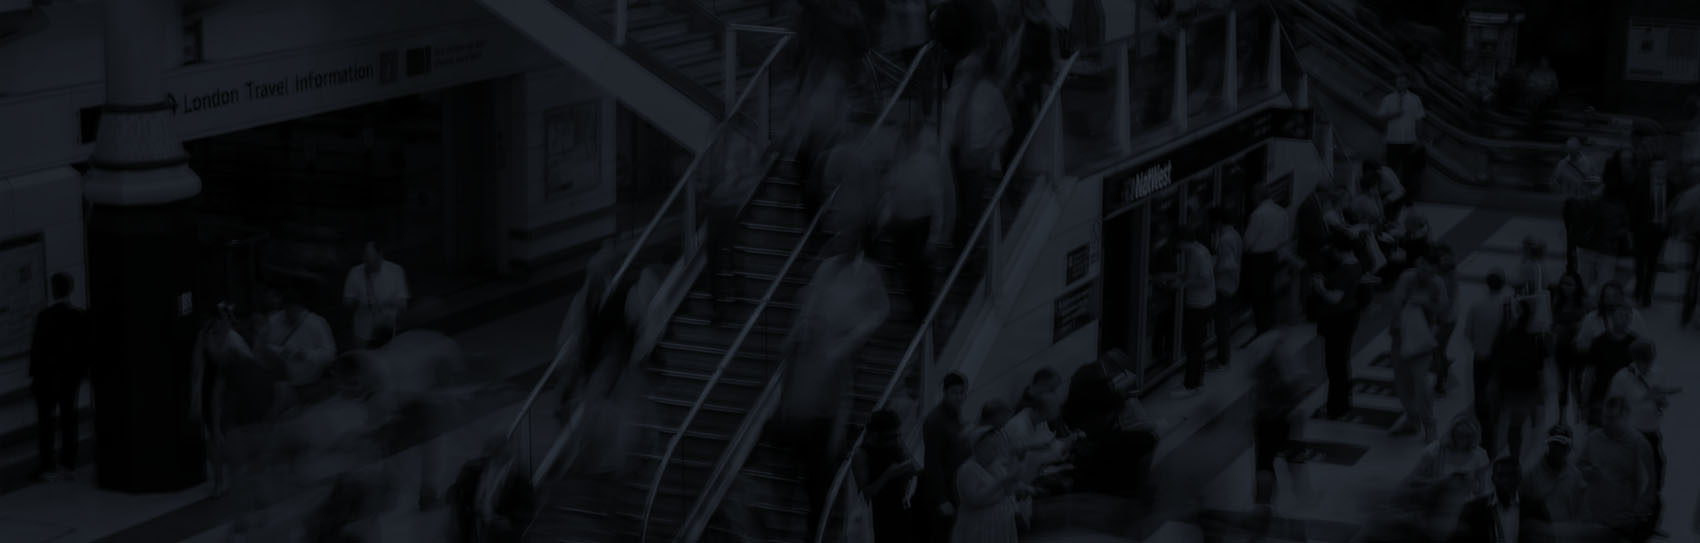
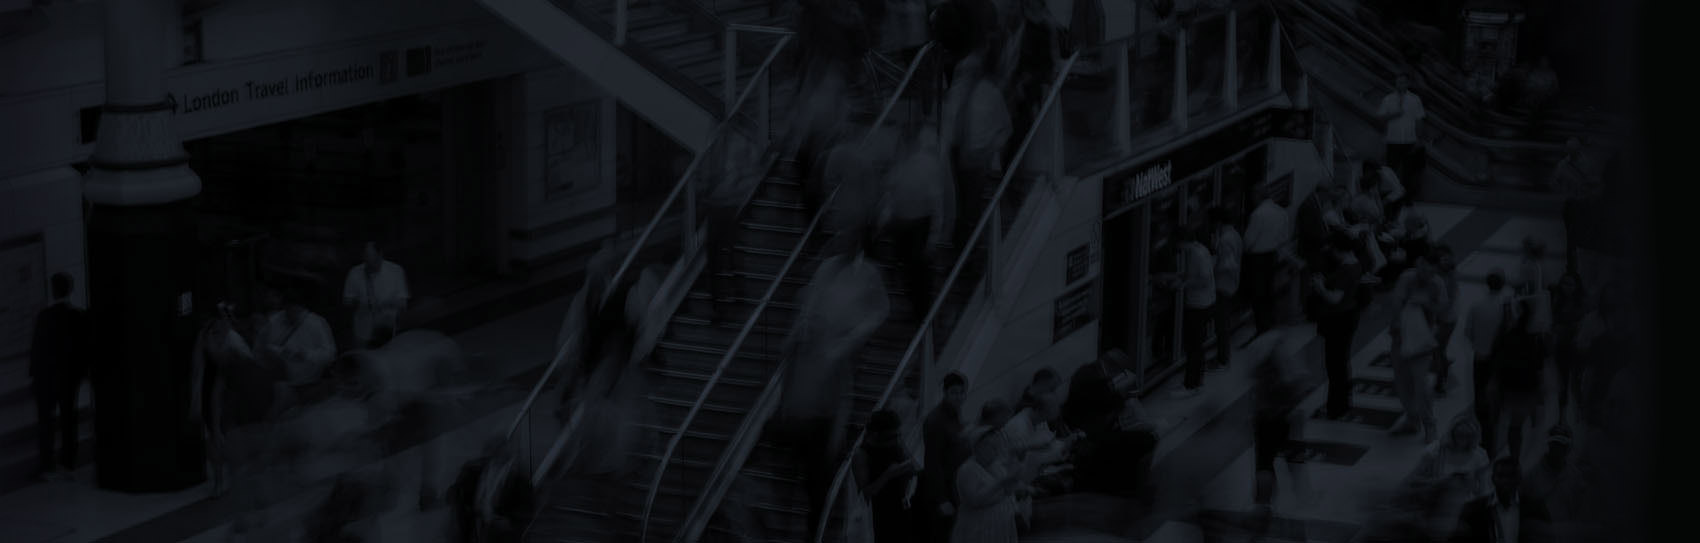
-bg hero

Changed region(s): [[0.9353, 0.442, 1.0, 1.0], [0.9665, 0.2357, 1.0, 0.3831]]

diff --git a/index.html b/index.html
@@ -102,6 +102,7 @@
 	<!--start wrapper-->
 	<section class="wrapper">
 		<!-- Start Jumbotron -->
+		<div style="background-color: #030604">
 		<div class="hero">
 			<div class="container">
 				<div class="col-md-6">
@@ -117,6 +118,7 @@
 					<img src="" class="img-responsive">
 				</div>
 			</div>
+		</div>
 		</div>
 		<!--End Jumbotron -->
 		
